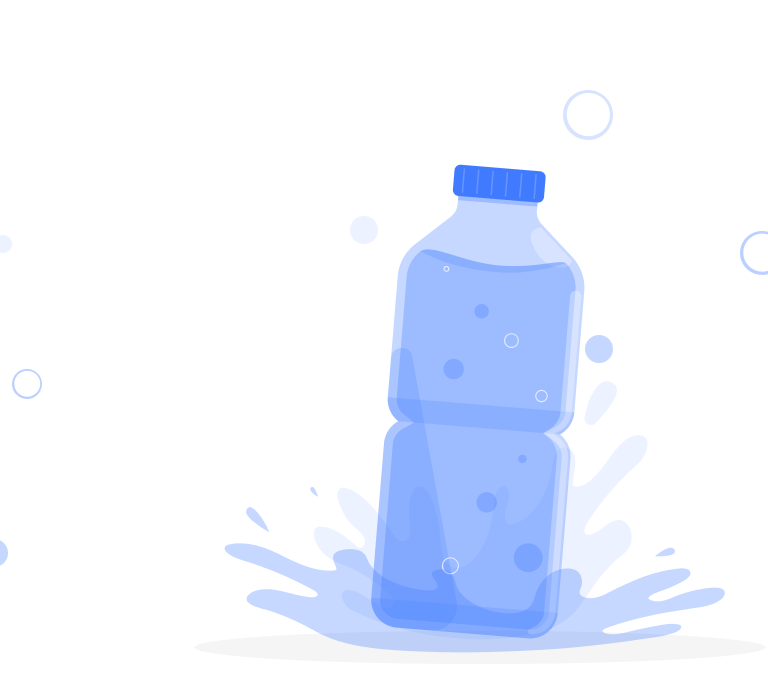
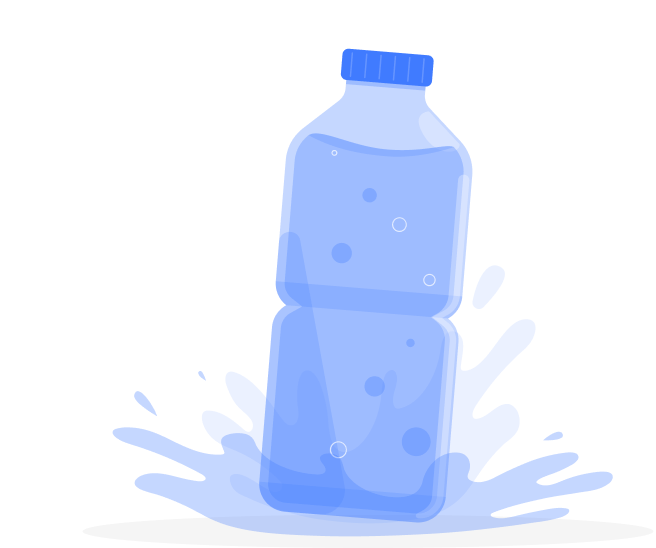
fix img sign_in_tab

diff --git a/src/pages/SigninPage.styled.js b/src/pages/SigninPage.styled.js
@@ -4,10 +4,17 @@ import styled from 'styled-components';
 
 import bgImgMob from '../img/bg_sign_in_mob@1x.png';
 import bgImgMob2x from '../img/bg_sign_in_mob@2x.png';
-import bgImgTab from '../img/sign_in_tab@1x.png';
-import bgImgTab2x from '../img/sign_in_tab@2x.png';
+import bgImgTab from '../img/bg_sign_in_tab@1x.png';
+import bgImgTab2x from '../img/bg_sign_in_tab@2x.png';
 import bgImg from '../img/main_page@1x.png';
 import bgImg2x from '../img/main_page@2x.png';
+
+// import bottleImgMob from '../img/sign_in_mob@1x.png';
+// import bottleImgMob2x from '../img/sign_in_mob@2x.png';
+// import bottleImgTab from '../img/sign_in_tab@1x.png';
+// import bottleImgTab2x from '../img/sign_in_tab@2x.png';
+// import bottleImg from '../img/sign_in@1x.png';
+// import bottleImg2x from '../img/sign_in@2x.png';
 
 export const StyledContainer = styled.div`
   height: 70vh;
@@ -160,7 +167,7 @@ export const BackgroundContainer = styled.div`
   @media (min-width: 768px) {
     &:before {
       background-image: url(${bgImgTab});
-      top: 0;
+      background-position: center;
 
       @media (min-resolution: 2dppx) {
         background-image: url(${bgImgTab2x});
